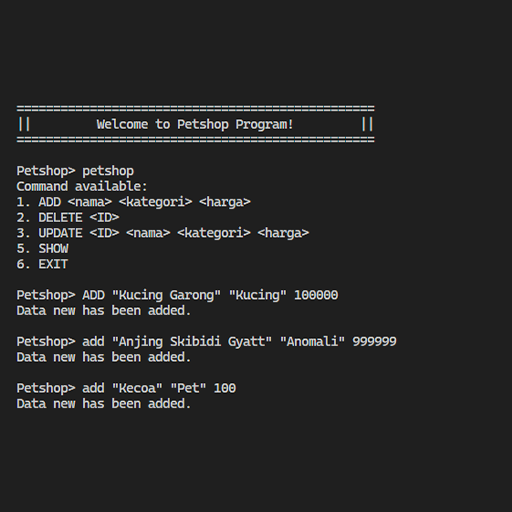
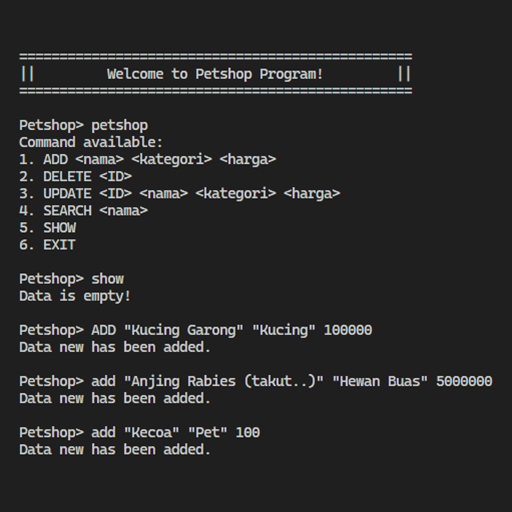
Upload LatMod 1

Changed region(s): [[0.0312, 0.0938, 0.8125, 0.9062], [0.5938, 0.7188, 0.9688, 0.7812]]

diff --git a/.cpp/Program/main.cpp b/.cpp/Program/main.cpp
@@ -39,11 +39,11 @@ void header (int col1, int col2, int col3, int col4) {
     cout << " | "; for (int i = 0; i < col4 - 5; i+=2) cout << " ";
     cout << "HARGA"; for (int i = 0; i < col4 - 5; i+=2) cout << " ";
     cout << " |" << endl;
-    cout << "+-"; for (int i = 0; i < col1; i++) cout << "-";
-    cout << "-+-"; for (int i = 0; i < col2; i++) cout << "-";
-    cout << "-+-"; for (int i = 0; i < col3; i++) cout << "-";
-    cout << "-+-"; for (int i = 0; i < col4; i++) cout << "-";
-    cout << "-+" << endl;
+    cout << "+="; for (int i = 0; i < col1; i++) cout << "=";
+    cout << "=+="; for (int i = 0; i < col2; i++) cout << "=";
+    cout << "=+="; for (int i = 0; i < col3; i++) cout << "=";
+    cout << "=+="; for (int i = 0; i < col4; i++) cout << "=";
+    cout << "=+" << endl;
 }
 
 // prosedur untuk menampilkan footer
@@ -135,7 +135,7 @@ int main () {
                     }
 
                     // kondisi jika data tidak ditemukan
-                    if (!found) cout << "Data with name " << nama << " not found!\n\n";
+                    if (!found) cout << "Data with name '" << nama << "' not found!\n\n";
 
                     // kondisi jika data ditemukan
                     else {
@@ -162,14 +162,14 @@ int main () {
                 colCheck (v); // set panjang kolom
 
                 // kondisi jika data kosong
-                if (v.size () == 0) cout << "Data is empty!" << endl;
+                if (v.size () == 0) cout << "Data is empty!\n\n";
 
                 // kondisi jika data tidak kosong
                 else {
                     header (colID, colName, colCategory, colPrice); // tampilkan header
                     for (int i = 0; i < v.size(); i++) { // loop semua data dan tampilkan
                         printRow (v[i].getID(), v[i].getNama(), v[i].getKategori(), v[i].getHarga(), colID, colName, colCategory, colPrice);
-                    } footer (colID, colName, colCategory, colPrice); cout << "\n"; // tampilkan footer
+                    } footer (colID, colName, colCategory, colPrice); // tampilkan footer
                     cout << "Displaying " << v.size() << " record(s).\n\n"; // tampilkan jumlah data yang ditampilkan
                 }
             }
